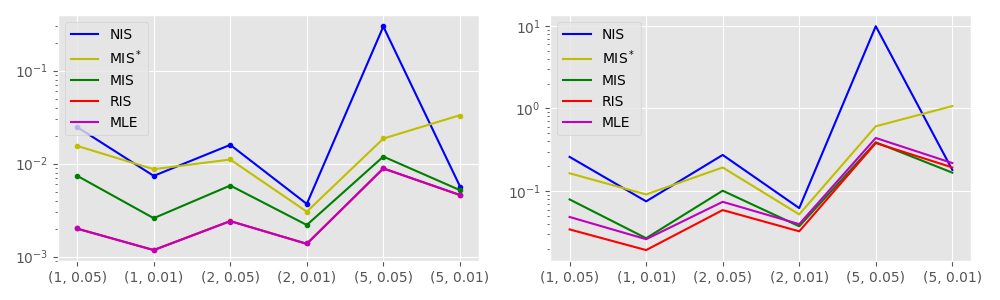
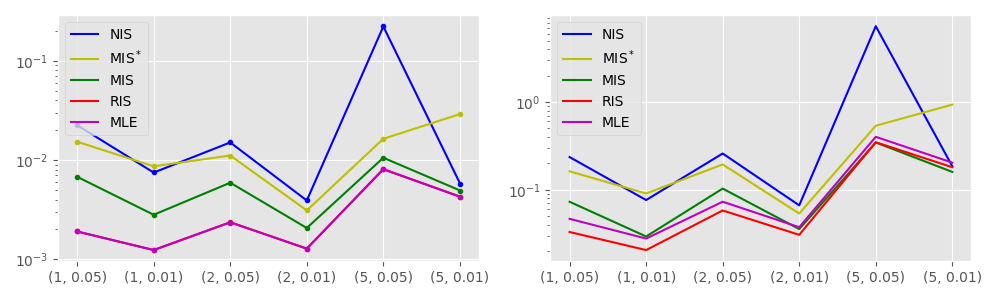
nb

diff --git a/niscv_v2/analysis/real/garch_estimate.py b/niscv_v2/analysis/real/garch_estimate.py
@@ -20,7 +20,7 @@ def main():
     file = open('../../data/real/time', 'rb')
     time = pickle.load(file)
 
-    data = read(29)
+    data = read(30)
     mean = np.mean(data, axis=0)
     print(mean)
     estimators = ['NIS', 'MIS$^*$', 'MIS', 'RIS', 'MLE']

diff --git a/niscv_v2/analysis/real/garch_truth.py b/niscv_v2/analysis/real/garch_truth.py
@@ -12,7 +12,7 @@ def read(num):
 
 
 def main():
-    data = read(11)
+    data = read(20)
     mean = np.mean(data, axis=0)
     print(mean)
     with open('../../data/real/truth', 'wb') as file:
